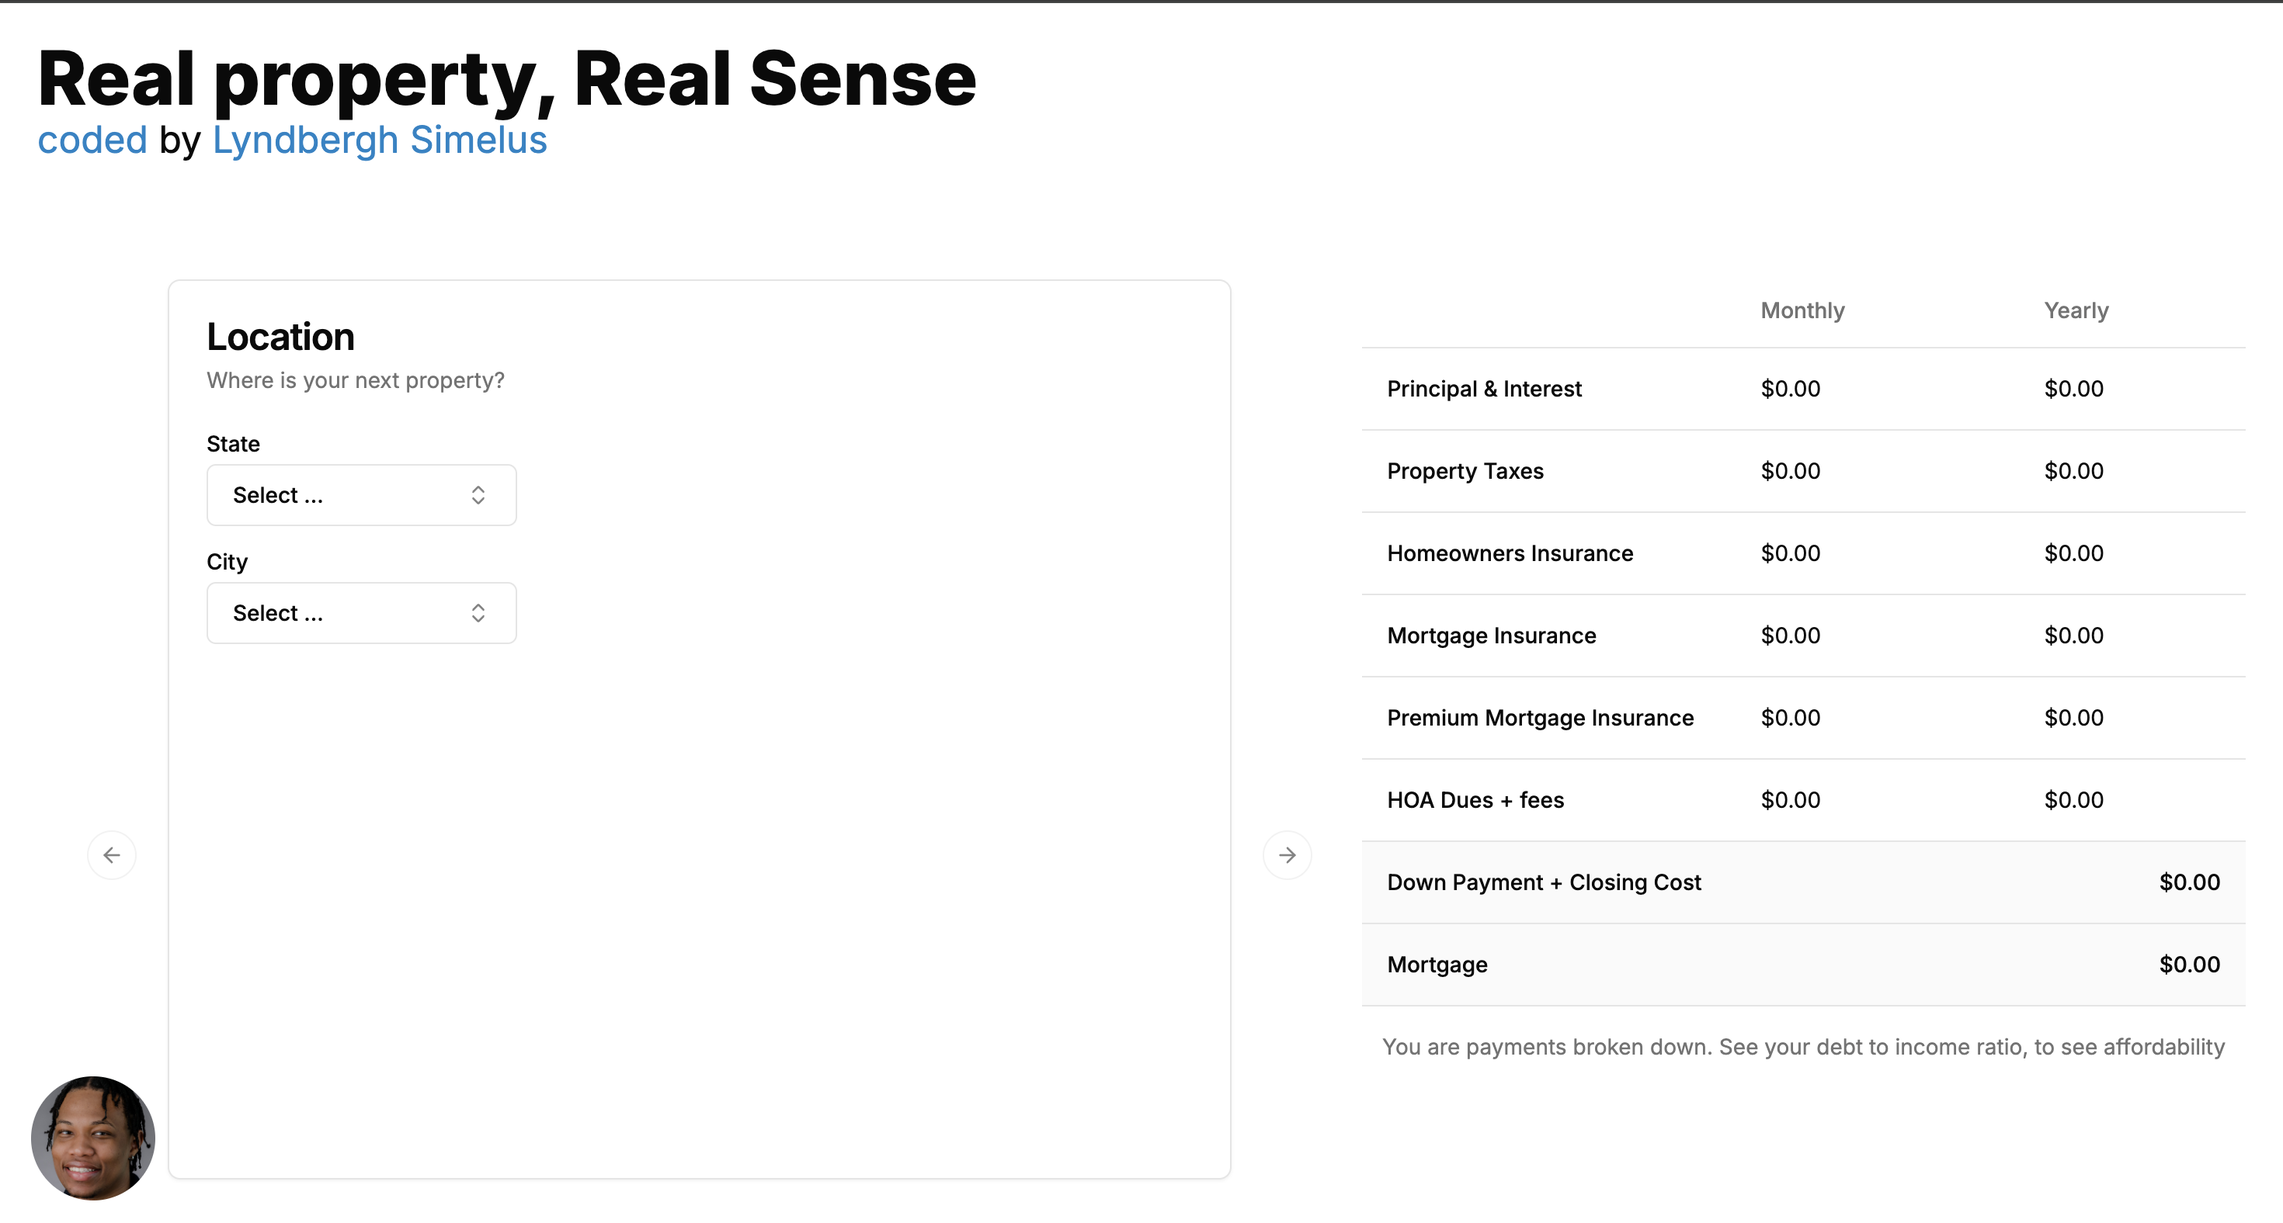
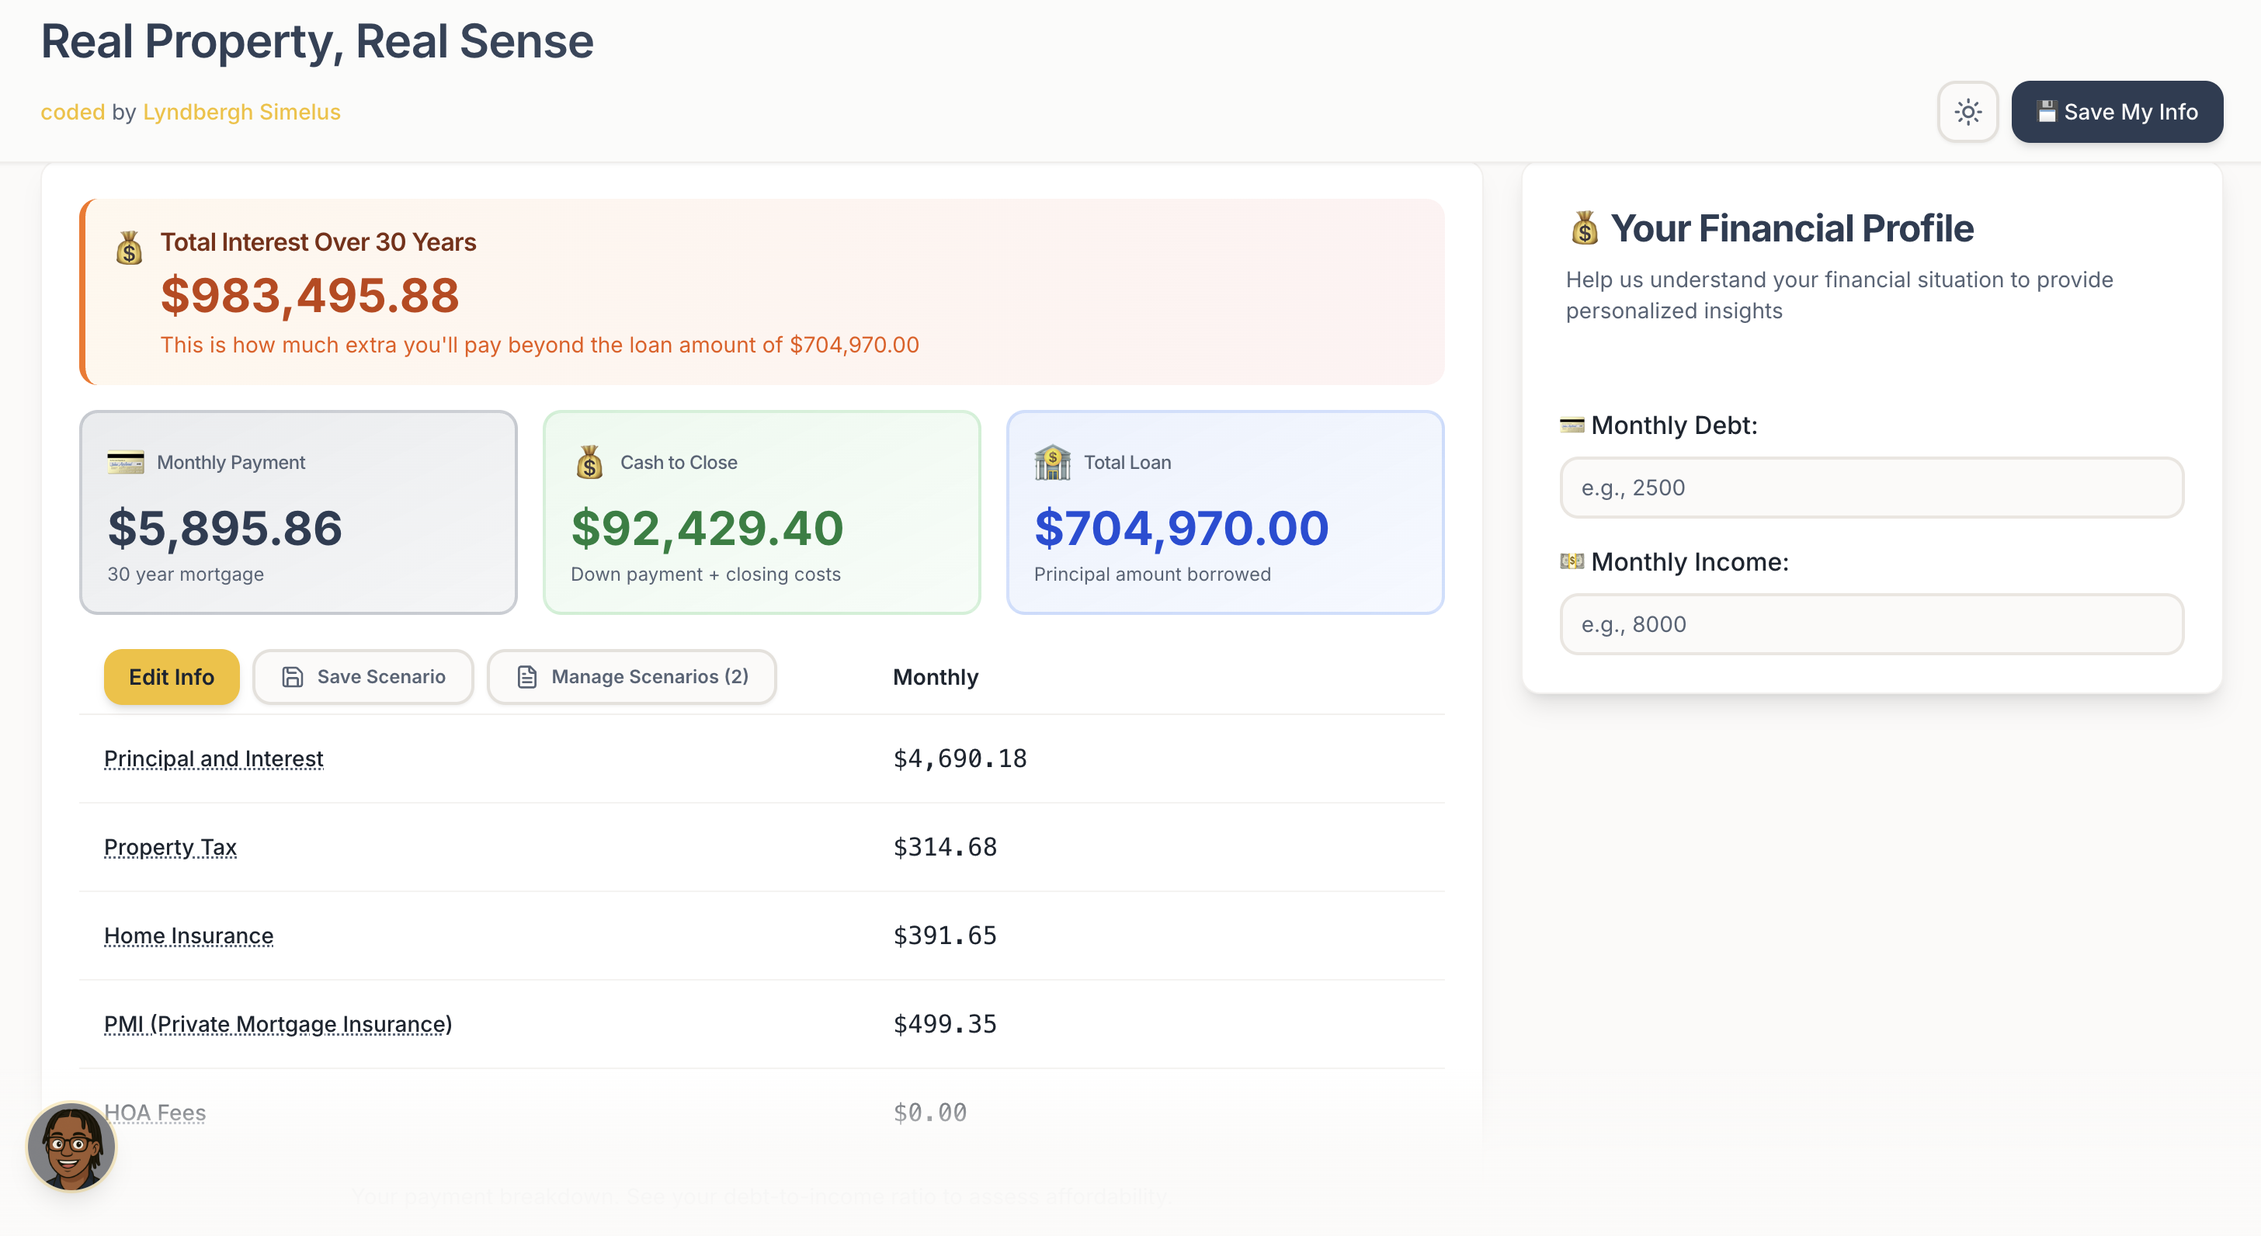
Update

diff --git a/src/data/data.tsx b/src/data/data.tsx
@@ -10,6 +10,7 @@ import marhaban from "../assets/workImages/marhaban.png"
 import techPic from "../assets/workImages/tech.png"
 import realEstateVid from "../assets/workVids/realEstateVid.mp4"
 import realEstate from "../assets/workImages/realEstate.png"
+import abc from "../assets/workImages/abc.png"
 import {
   AboutData,
   ServicePlan,
@@ -129,34 +130,37 @@ export const resume = {
 export const servicesData: ServicePlan[] = [
   {
     title: "Explore Plan",
-    price: "$499",
+    price: "$1,250",
     features: [
       "Custom coded website or platform",
       "3 page layout website",
       "Responsive design for mobile",
-      "1 round of revision"
+      "1 round of revision",
+      "$5/month maintenance & hosting"
     ],
     accentColor: "#2DC85D"
   },
   {
     title: "Premium Plan",
-    price: "$999",
+    price: "$2,500",
     features: [
       "Custom coded website or platform",
       "5 page responsive website",
       "Up to 5 revisions",
-      "Social media integration"
+      "Social media integration",
+      "$10/month maintenance & hosting"
     ],
     accentColor: "#3380FF"
   },
   {
     title: "Immersive Plan",
-    price: "$1999",
+    price: "$5,000",
     features: [
       "Unlimited pages",
       "Unlimited revisions",
       "Social media campaigns",
-      "Brand messaging and logos"
+      "Brand messaging and logos",
+      "$20/month maintenance & hosting"
     ],
     accentColor: "#BE33FF"
   }
@@ -177,39 +181,35 @@ export const service = services
 // ============================================================================
 
 export const technologies: Technology[] = [
-  { name: "React", primaryColor: "#61DAFB", secondaryColor: "#222222", proficiencyLevel: 9, category: TechCategory.FRONTEND },
-  { name: "JavaScript", primaryColor: "#F99D28", secondaryColor: "#FFCA3F", proficiencyLevel: 9, category: TechCategory.FRONTEND },
-  { name: "TypeScript", primaryColor: "#2F71BB", secondaryColor: "white", proficiencyLevel: 9, category: TechCategory.FRONTEND },
-  { name: "HTML", primaryColor: "#FF3337", secondaryColor: "#FD7A63", proficiencyLevel: 10, category: TechCategory.FRONTEND },
-  { name: "CSS", primaryColor: "#047CB6", secondaryColor: "#0399E7", proficiencyLevel: 9, category: TechCategory.FRONTEND },
-  { name: "Tailwind CSS", primaryColor: "#3ABDF7", secondaryColor: "", proficiencyLevel: 8, category: TechCategory.FRONTEND },
-  { name: "Bootstrap", primaryColor: "#8411F5", secondaryColor: "", proficiencyLevel: 7, category: TechCategory.FRONTEND },
-  { name: "Redux", primaryColor: "#764ABC", secondaryColor: "white", proficiencyLevel: 8, category: TechCategory.FRONTEND },
-  { name: "MongoDB", primaryColor: "#01EC64", secondaryColor: "#000000", proficiencyLevel: 9, category: TechCategory.FRONTEND },
+  // Languages & Frameworks
+  { name: "React", primaryColor: "#61DAFB", secondaryColor: "#222222", proficiencyLevel: 9, category: TechCategory.DEVELOPMENT },
+  { name: "Next.js", primaryColor: "#000000", secondaryColor: "#FFFFFF", proficiencyLevel: 8, category: TechCategory.DEVELOPMENT },
+  { name: "JavaScript", primaryColor: "#F99D28", secondaryColor: "#FFCA3F", proficiencyLevel: 9, category: TechCategory.DEVELOPMENT },
+  { name: "TypeScript", primaryColor: "#2F71BB", secondaryColor: "white", proficiencyLevel: 9, category: TechCategory.DEVELOPMENT },
+  { name: "HTML", primaryColor: "#FF3337", secondaryColor: "#FD7A63", proficiencyLevel: 10, category: TechCategory.DEVELOPMENT },
+  { name: "CSS", primaryColor: "#047CB6", secondaryColor: "#0399E7", proficiencyLevel: 9, category: TechCategory.DEVELOPMENT },
+  { name: "Tailwind CSS", primaryColor: "#3ABDF7", secondaryColor: "", proficiencyLevel: 8, category: TechCategory.DEVELOPMENT },
+  { name: "Bootstrap", primaryColor: "#8411F5", secondaryColor: "", proficiencyLevel: 7, category: TechCategory.DEVELOPMENT },
+  { name: "Redux", primaryColor: "#764ABC", secondaryColor: "white", proficiencyLevel: 8, category: TechCategory.DEVELOPMENT },
+  { name: "Node.js", primaryColor: "#83CD29", secondaryColor: "#404137", proficiencyLevel: 8, category: TechCategory.DEVELOPMENT },
+  { name: "Express.js", primaryColor: "#000000", secondaryColor: "#FFFFFF", proficiencyLevel: 8, category: TechCategory.DEVELOPMENT },
+  { name: "Python", primaryColor: "#336998", secondaryColor: "#F1D55B", proficiencyLevel: 7, category: TechCategory.DEVELOPMENT },
+  { name: "Ruby on Rails", primaryColor: "#D30002", secondaryColor: "#FFFFFF", proficiencyLevel: 8, category: TechCategory.DEVELOPMENT },
+  { name: "Swift", primaryColor: "#FD6330", secondaryColor: "#FFFFFF", proficiencyLevel: 6, category: TechCategory.DEVELOPMENT },
+  { name: "MongoDB", primaryColor: "#01EC64", secondaryColor: "#000000", proficiencyLevel: 9, category: TechCategory.DEVELOPMENT },
+  { name: "SQL", primaryColor: "#0072CB", secondaryColor: "white", proficiencyLevel: 8, category: TechCategory.DEVELOPMENT },
 
-  { name: "Node.js", primaryColor: "#83CD29", secondaryColor: "#404137", proficiencyLevel: 8, category: TechCategory.BACKEND },
-  { name: "Python", primaryColor: "#336998", secondaryColor: "#F1D55B", proficiencyLevel: 7, category: TechCategory.BACKEND },
-  { name: "Ruby on Rails", primaryColor: "#D30002", secondaryColor: "#FFFFFF", proficiencyLevel: 8, category: TechCategory.BACKEND },
-  { name: "Java", primaryColor: "#f89820", secondaryColor: "#5382a1", proficiencyLevel: 6, category: TechCategory.BACKEND },
-  { name: "GraphQL", primaryColor: "#DE33A6", secondaryColor: "white", proficiencyLevel: 7, category: TechCategory.BACKEND },
-  { name: "SQL", primaryColor: "#0072CB", secondaryColor: "white", proficiencyLevel: 8, category: TechCategory.BACKEND },
-  { name: "Swift", primaryColor: "#FD6330", secondaryColor: "#FFFFFF", proficiencyLevel: 6, category: TechCategory.BACKEND },
-  { name: "Processing", primaryColor: "#1E30A2", secondaryColor: "#7EA5F2", proficiencyLevel: 5, category: TechCategory.BACKEND },
-
-  { name: "AWS", primaryColor: "#FF9900", secondaryColor: "#146EB4", proficiencyLevel: 8, category: TechCategory.TOOLS },
-  { name: "Azure", primaryColor: "#0B58A1", secondaryColor: "#3AC2F1", proficiencyLevel: 7, category: TechCategory.TOOLS },
-  { name: "Docker", primaryColor: "#218FE0", secondaryColor: "", proficiencyLevel: 7, category: TechCategory.TOOLS },
-  { name: "Firebase", primaryColor: "#E87B09", secondaryColor: "#0393DA", proficiencyLevel: 7, category: TechCategory.TOOLS },
-  { name: "Github", primaryColor: "#7241C8", secondaryColor: "", proficiencyLevel: 9, category: TechCategory.TOOLS },
-  { name: "Postman", primaryColor: "#FC6C35", secondaryColor: "#FFFFFF", proficiencyLevel: 8, category: TechCategory.TOOLS },
-  { name: "Yarn", primaryColor: "#2987B2", secondaryColor: "white", proficiencyLevel: 8, category: TechCategory.TOOLS },
-  { name: "Visual Studio Code", primaryColor: "#249FE6", secondaryColor: "#0569AA", proficiencyLevel: 9, category: TechCategory.TOOLS },
-  { name: "Render.com", primaryColor: "#44DCB0", secondaryColor: "#3F4358", proficiencyLevel: 7, category: TechCategory.TOOLS },
-  { name: "AirBrake", primaryColor: "#F3991D", secondaryColor: "#FFFFFF", proficiencyLevel: 7, category: TechCategory.TOOLS },
-  { name: "New Relic", primaryColor: "#1EE783", secondaryColor: "#1D252C", proficiencyLevel: 7, category: TechCategory.TOOLS },
-  { name: "Figma", primaryColor: "#EB4B1D", secondaryColor: "#19B6F6", proficiencyLevel: 8, category: TechCategory.TOOLS },
-  { name: "Jira", primaryColor: "#0052CC", secondaryColor: "#FFFFFF", proficiencyLevel: 8, category: TechCategory.TOOLS },
-  {name: "Vercel", primaryColor: "#000000", secondaryColor: "#FFFFFF", proficiencyLevel: 7, category: TechCategory.TOOLS }
+  // Tools & Infrastructure
+  { name: "AWS", primaryColor: "#FF9900", secondaryColor: "#146EB4", proficiencyLevel: 8, category: TechCategory.INFRASTRUCTURE },
+    { name: "Docker", primaryColor: "#218FE0", secondaryColor: "", proficiencyLevel: 7, category: TechCategory.INFRASTRUCTURE },
+  { name: "Firebase", primaryColor: "#E87B09", secondaryColor: "#0393DA", proficiencyLevel: 7, category: TechCategory.INFRASTRUCTURE },
+  { name: "Vercel", primaryColor: "#000000", secondaryColor: "#FFFFFF", proficiencyLevel: 7, category: TechCategory.INFRASTRUCTURE },
+  { name: "Render.com", primaryColor: "#44DCB0", secondaryColor: "#3F4358", proficiencyLevel: 7, category: TechCategory.INFRASTRUCTURE },
+  { name: "Github", primaryColor: "#7241C8", secondaryColor: "", proficiencyLevel: 9, category: TechCategory.INFRASTRUCTURE },
+    { name: "Postman", primaryColor: "#FC6C35", secondaryColor: "#FFFFFF", proficiencyLevel: 8, category: TechCategory.INFRASTRUCTURE },
+    { name: "Figma", primaryColor: "#EB4B1D", secondaryColor: "#19B6F6", proficiencyLevel: 8, category: TechCategory.INFRASTRUCTURE },
+    { name: "AirBrake", primaryColor: "#F3991D", secondaryColor: "#FFFFFF", proficiencyLevel: 7, category: TechCategory.INFRASTRUCTURE },
+  { name: "New Relic", primaryColor: "#1EE783", secondaryColor: "#1D252C", proficiencyLevel: 7, category: TechCategory.INFRASTRUCTURE }
 ]
 
 // For backwards compatibility - map to old format
@@ -219,7 +219,7 @@ technologies.forEach(t => {
     color: t.primaryColor,
     color2: t.secondaryColor,
     skill: t.proficiencyLevel,
-    cat: t.category === TechCategory.FRONTEND ? 0 : t.category === TechCategory.BACKEND ? 1 : 2
+    cat: t.category === TechCategory.DEVELOPMENT ? 0 : 1
   }
 })
 
@@ -229,6 +229,17 @@ technologies.forEach(t => {
 
 export const portfolioData: PortfolioData = {
   projects: [
+    {
+      title: "ABChealth",
+      description: "A modern, responsive landing page for ABChealth - a revolutionary social media platform combining goal setting, blogging, and community engagement for personal growth. Features include progress analytics, accountability partners, achievement systems, learning paths, and discussion forums.",
+      technologies: ["HTML", "CSS", "JavaScript", "Tailwind CSS"],
+      type: [ProjectType.FRONTEND],
+      githubUrl: "https://github.com/Lsimelus/abchealth-expressjs",
+      liveUrl: "https://abchealth-expressjs.vercel.app/",
+      date: "2025",
+      media: { image: abc },
+      featured: true
+    },
     {
       title: "REAL Estate Calculator",
       description: "This application is designed to provide users with insight into how U.S. real estate markets compare in terms of affordability and profitability. It also allows for easy comparison between locations and shows how a loan can be paid off over time, as well as how that affects the equity you build in your home.",
@@ -241,21 +252,12 @@ export const portfolioData: PortfolioData = {
       featured: true
     },
     {
-      title: "Tech Interview Prep",
-      description: "A technical assignment for a software engineering position. This is front-end application.",
-      technologies: ["JavaScript", "JavaScript", "HTML", "CSS"],
-      type: [ProjectType.FRONTEND],
-      githubUrl: "https://github.com/Lsimelus/TechAssessment",
-      date: "Feb 2023",
-      media: { image: techPic },
-      featured: true
-    },
-    {
       title: "Web Portfolio",
       description: "The system is built on a modern, full-stack architecture: the interactive frontend uses React and TypeScript, while the robust backend is powered by Python FastAPI. All user input is securely managed in a PostgreSQL database, and the entire application is seamlessly hosted on Vercel.",
       technologies: ["React", "Node.js", "MongoDB", "Render.com", "TypeScript", "Vercel"],
       type: [ProjectType.FULLSTACK],
       githubUrl: "https://github.com/Lsimelus/portfolio",
+      liveUrl: "https://www.lyndbergh.net/",
       date: "Feb 2023",
       media: { image: port },
       featured: true
@@ -266,35 +268,19 @@ export const portfolioData: PortfolioData = {
       technologies: ["React", "Node.js", "MongoDB", "Render.com", "TypeScript"],
       type: [ProjectType.FULLSTACK],
       githubUrl: "https://github.com/Lsimelus/Marhaban",
+      liveUrl: "https://marhaban.vercel.app/",
       date: "April 2023",
       media: { image: marhaban, video: marhabanVid }
     },
     {
-      title: "Royal Fitness",
-      description: "An iOS mobile fitness application built with Swift. Features user login and authentication, tracks user movement while running (returning mph and average mile speed), and includes built-in suggested workouts and videos.",
-      technologies: ["Firebase", "Swift"],
-      type: [ProjectType.FULLSTACK],
-      githubUrl: "https://github.com/Lsimelus/RoyalFitness",
-      date: "Feb 2021",
-      media: { image: royal, video: royalVid }
-    },
-    {
-      title: "Cookie Recipe Generator",
-      description: "A system that successfully generates unique cookie recipes by analyzing molecular similarities, combining different recipes for numerous generations, and allowing mutations. Molecular data sourced from FlavorDB.",
-      technologies: ["Python"],
-      type: [ProjectType.BACKEND],
-      githubUrl: "https://github.com/Lsimelus/Genetic-Algorithm-Cookie-recipe-builder",
-      date: "Feb 2021",
-      media: { image: cookie, video: cookieVid }
-    },
-    {
-      title: "Neural Networks Python",
-      description: "A Neural Network that processes movie scripts between 2 actors, then uses the knowledge base to classify actor dialogue and predict who is speaking.",
-      technologies: ["Python"],
-      type: [ProjectType.BACKEND],
-      githubUrl: "https://github.com/Lsimelus/Neural_Networks",
-      date: "Jan 2020",
-      media: { image: neural, video: neuralVid }
+      title: "Tech Interview Prep",
+      description: "A technical assignment for a software engineering position. This is front-end application.",
+      technologies: ["JavaScript", "JavaScript", "HTML", "CSS"],
+      type: [ProjectType.FRONTEND],
+      githubUrl: "https://github.com/Lsimelus/TechAssessment",
+      date: "Feb 2023",
+      media: { image: techPic },
+      featured: true
     }
   ]
 }

diff --git a/src/components/ResumeSection/index.tsx b/src/components/ResumeSection/index.tsx
@@ -1,8 +1,8 @@
 import React from "react";
-import { Box, Container, Typography, Card, CardContent, Chip, Stack, useTheme, Divider } from '@mui/material';
+import { Box, Container, Typography, Card, CardContent, Chip, Stack, useTheme } from '@mui/material';
 import WorkIcon from '@mui/icons-material/Work';
 import SchoolIcon from '@mui/icons-material/School';
-import { resumeData, technologies, TechCategory } from "../../data/data"
+import { resumeData, technologies } from "../../data/data"
 
 const Resume = React.forwardRef<HTMLElement>((props, ref) => {
   const theme = useTheme();
@@ -147,42 +147,31 @@ const Resume = React.forwardRef<HTMLElement>((props, ref) => {
             Technical Skills
           </Typography>
 
-          {Object.values(TechCategory).map((category) => {
-            const categoryTechs = technologies.filter(t => t.category === category);
-            return (
-              <Box key={category} sx={{ mb: 5 }}>
-                <Typography variant="h5" sx={{ fontWeight: 600, mb: 3, textAlign: 'left' }}>
-                  {category}
-                </Typography>
-                <Divider sx={{ mb: 3 }} />
-                <Stack direction="row" flexWrap="wrap" gap={1.5}>
-                  {categoryTechs.map((tech) => (
-                    <Chip
-                      key={tech.name}
-                      label={tech.name}
-                      sx={{
-                        bgcolor: `${tech.primaryColor}15`,
-                        color: tech.primaryColor,
-                        borderColor: tech.primaryColor,
-                        border: `1.5px solid`,
-                        fontWeight: 500,
-                        fontSize: '0.9rem',
-                        py: 2.5,
-                        px: 1,
-                        transition: 'all 0.2s ease',
-                        '&:hover': {
-                          bgcolor: tech.primaryColor,
-                          color: '#fff',
-                          transform: 'translateY(-2px)',
-                          boxShadow: theme.shadows[3],
-                        }
-                      }}
-                    />
-                  ))}
-                </Stack>
-              </Box>
-            );
-          })}
+          <Stack direction="row" flexWrap="wrap" gap={1.5}>
+            {technologies.map((tech) => (
+              <Chip
+                key={tech.name}
+                label={tech.name}
+                sx={{
+                  bgcolor: `${tech.primaryColor}15`,
+                  color: tech.primaryColor,
+                  borderColor: tech.primaryColor,
+                  border: `1.5px solid`,
+                  fontWeight: 500,
+                  fontSize: '0.9rem',
+                  py: 2.5,
+                  px: 1,
+                  transition: 'all 0.2s ease',
+                  '&:hover': {
+                    bgcolor: tech.primaryColor,
+                    color: '#fff',
+                    transform: 'translateY(-2px)',
+                    boxShadow: theme.shadows[3],
+                  }
+                }}
+              />
+            ))}
+          </Stack>
         </Box>
       </Container>
     </Box>

diff --git a/src/types/index.ts b/src/types/index.ts
@@ -26,9 +26,8 @@ export interface ServicePlan {
 }
 
 export enum TechCategory {
-  FRONTEND = 'Frontend',
-  BACKEND = 'Backend',
-  TOOLS = 'Tools & Services'
+  DEVELOPMENT = 'Languages & Frameworks',
+  INFRASTRUCTURE = 'Tools & Infrastructure'
 }
 
 export interface Technology {
